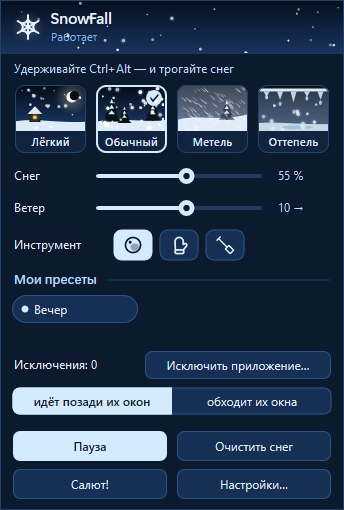
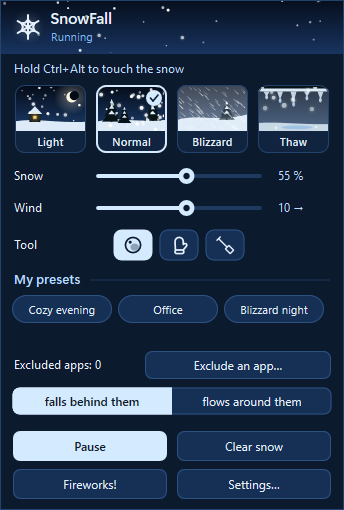
README: clean English screenshots (Russian ones in README.ru); UI showcase mode, preview speed label, preset chip widths

diff --git a/platform/windows/tests/integration/ui/ui_demo.cpp b/platform/windows/tests/integration/ui/ui_demo.cpp
@@ -1342,6 +1342,116 @@ int runSelfTest(HINSTANCE inst, Demo& d) {
     return t.failures == 0 ? 0 : 1;
 }
 
+// ---- showcase: clean screenshots of OUR OWN windows for the README (no selftest state) --------------
+// Places `w` on the cursor-free half of its monitor so nothing is drawn hovered.
+void moveAwayFromCursor(HWND w) {
+    POINT cur{};
+    GetCursorPos(&cur);
+    RECT r{};
+    GetWindowRect(w, &r);
+    MONITORINFO mi{};
+    mi.cbSize = sizeof(mi);
+    GetMonitorInfoW(MonitorFromPoint(cur, MONITOR_DEFAULTTONEAREST), &mi);
+    const RECT& wa = mi.rcWork;
+    const int ww = r.right - r.left, wh = r.bottom - r.top;
+    const bool cursorLeft = cur.x < (wa.left + wa.right) / 2;
+    int x = cursorLeft ? wa.right - ww - 8 : wa.left + 8;
+    int y = wa.top + 8;
+    if (cur.x >= x && cur.x < x + ww && cur.y >= y && cur.y < y + wh) y = (cur.y < (wa.top + wa.bottom) / 2) ? wa.bottom - wh - 8 : wa.top + 8;
+    SetWindowPos(w, nullptr, x, y, 0, 0, SWP_NOSIZE | SWP_NOZORDER | SWP_NOACTIVATE);
+}
+
+void hideFocusCues(HWND w) {
+    SendMessageW(w, WM_CHANGEUISTATE, MAKEWPARAM(UIS_SET, UISF_HIDEFOCUS | UISF_HIDEACCEL), 0);
+    RedrawWindow(w, nullptr, nullptr, RDW_INVALIDATE | RDW_ERASE | RDW_ALLCHILDREN | RDW_UPDATENOW);
+}
+
+bool saveOwnWindow(HWND w, const std::wstring& path) {
+    RECT r{};
+    GetWindowRect(w, &r);
+    MemBitmap mem(r.right - r.left, r.bottom - r.top);
+    if (!PrintWindow(w, mem.dc, PW_RENDERFULLCONTENT)) return false;
+    return mem.save(path);
+}
+
+int runShowcase(HINSTANCE inst, Demo& d, const std::wstring& outDir, Language lang) {
+    CreateDirectoryW(outDir.c_str(), nullptr);
+    HWND owner = createOwner(inst);
+    if (!owner) return 1;
+    const bool ru = lang == Language::Russian;
+    d.settings = Settings{};
+    d.settings.system.language = lang;
+    d.settings.interaction.tool = Tool::Snowball;
+    auto preset = [](const char* name, WeatherPreset p, int intensity, int wind, int maxHeight) {
+        UserPreset u;
+        u.name = name;
+        u.weather.preset = p;
+        u.weather.intensity = intensity;
+        u.weather.wind = wind;
+        u.maxHeightPxAt96Dpi = maxHeight;
+        return u;
+    };
+    d.settings.userPresets = {preset(ru ? "Уютный вечер" : "Cozy evening", WeatherPreset::Light, 30, -10, 30),
+                              preset(ru ? "Офис" : "Office", WeatherPreset::Normal, 45, 5, 24),
+                              preset(ru ? "Ночная метель" : "Blizzard night", WeatherPreset::Blizzard, 90, 60, 60)};
+    setLanguage(lang);
+    d.window.initialize(inst, makeCallbacks());
+    int saved = 0;
+    const wchar_t* themes[3] = {L"night", L"globe", L"postcard"};
+    for (int t = 0; t < 3; ++t) {
+        d.settings.system.uiTheme = static_cast<UiTheme>(t);
+        d.window.show(d.settings);
+        HWND w = d.window.hwnd();
+        if (!w) return 1;
+        moveAwayFromCursor(w);
+        click(w, IDC_NAV_FIRST);
+        SendMessageW(w, uitest::kMsgPreviewAdvance, 240, 0);   // a winter's worth of drifts in the preview
+        hideFocusCues(w);
+        pump(d.window, 1500);   // flakes in motion, transitions finished
+        hideFocusCues(w);
+        pump(d.window, 100);
+        saved += saveOwnWindow(w, outDir + L"\\settings-" + themes[t] + L".png") ? 1 : 0;
+        if (t == 0) {
+            click(w, IDC_NAV_FIRST + 1);
+            hideFocusCues(w);
+            pump(d.window, 600);
+            saved += saveOwnWindow(w, outDir + L"\\settings-" + themes[t] + L"-drifts.png") ? 1 : 0;
+            click(w, IDC_NAV_FIRST);
+        }
+    }
+    d.window.close();
+    pump(d.window, 100);
+
+    // Quick panel, moved to a fixed spot (not near the real tray).
+    d.tray.create(inst, owner, kTrayCommandMsg);
+    for (int t = 0; t < 3; ++t) {
+        d.settings.system.uiTheme = static_cast<UiTheme>(t);
+        d.tray.setSettings(d.settings);
+        d.tray.setState(trayState(d));
+        // The panel closes when it loses activation (a desktop in use can steal it): retry.
+        bool done = false;
+        for (int attempt = 0; attempt < 5 && !done; ++attempt) {
+            d.tray.showQuickPanel();
+            pump(d.window, 100);
+            HWND qp = findOwnWindow(L"SnowFallQuickPanel");
+            if (!qp || !IsWindowVisible(qp)) continue;
+            moveAwayFromCursor(qp);
+            hideFocusCues(qp);
+            pump(d.window, 1200);
+            hideFocusCues(qp);
+            pump(d.window, 60);
+            if (IsWindowVisible(qp)) done = saveOwnWindow(qp, outDir + L"\\quick-panel-" + themes[t] + L".png");
+        }
+        saved += done ? 1 : 0;
+        d.tray.hideQuickPanel();
+        pump(d.window, 50);
+    }
+    d.tray.remove();
+    DestroyWindow(owner);
+    printf("showcase: %d images in %ls\n", saved, outDir.c_str());
+    return saved == 7 ? 0 : 1;
+}
+
 int runInteractive(HINSTANCE inst, Demo& d) {
     HWND owner = createOwner(inst);
     if (!owner) return 1;
@@ -1374,8 +1484,15 @@ int wmain(int argc, wchar_t** argv) {
     INITCOMMONCONTROLSEX icc{sizeof(icc), ICC_STANDARD_CLASSES | ICC_TAB_CLASSES | ICC_BAR_CLASSES};
     InitCommonControlsEx(&icc);
     bool selfTest = false;
+    std::wstring showcaseDir;
+    Language showcaseLang = Language::English;
     for (int i = 1; i < argc; ++i) {
         if (lstrcmpiW(argv[i], L"--selftest") == 0) selfTest = true;
+        if (lstrcmpiW(argv[i], L"--showcase") == 0 && i + 1 < argc) showcaseDir = argv[++i];
+        if (lstrcmpiW(argv[i], L"--lang") == 0 && i + 1 < argc) {
+            ++i;
+            showcaseLang = lstrcmpiW(argv[i], L"ru") == 0 ? Language::Russian : Language::English;
+        }
         if (lstrcmpiW(argv[i], L"--dpi") == 0 && i + 1 < argc) uitest::setDpiOverride(static_cast<UINT>(_wtoi(argv[++i])));
     }
     Gdiplus::GdiplusStartupInput gdiplusInput;
@@ -1390,7 +1507,9 @@ int wmain(int argc, wchar_t** argv) {
         demo.exeDir = path;
         demo.exeDir.erase(demo.exeDir.find_last_of(L'\\'));
         g_demo = &demo;
-        rc = selfTest ? runSelfTest(inst, demo) : runInteractive(inst, demo);
+        rc = !showcaseDir.empty() ? runShowcase(inst, demo, showcaseDir, showcaseLang)
+             : selfTest            ? runSelfTest(inst, demo)
+                                   : runInteractive(inst, demo);
         g_demo = nullptr;
     }
     Gdiplus::GdiplusShutdown(gdiplusToken);

diff --git a/platform/windows/app/ui/skin.cpp b/platform/windows/app/ui/skin.cpp
@@ -386,10 +386,15 @@ bool Skin::onDrawItem(LPARAM lp) {
             const float r = (chip.bottom - chip.top) / 2;
             pt.fillRound(chip, r, col(sel ? mixColor(p.control, p.accent, 0.25f) : p.control));
             pt.strokeRound(chip, r, col(sel ? p.accent : p.controlBorder), sel ? 1.5f : 1.0f);
-            pt.fillEllipse(chip.left + 13, s.height / 2, 3.5f, 3.5f, col(p.accent));
-            TextStyle ts{pt.bodySize()};
-            const float right = deletable ? chipDeleteZone(s.width) : chip.right - 8;
-            pt.text(text, rf(chip.left + 22, 0, right, s.height), ts, col(p.controlText));
+            if (deletable) {
+                pt.fillEllipse(chip.left + 13, s.height / 2, 3.5f, 3.5f, col(p.accent));
+                TextStyle ts{pt.bodySize()};
+                pt.text(text, rf(chip.left + 22, 0, chipDeleteZone(s.width), s.height), ts, col(p.controlText));
+            } else {   // compact chip (quick panel): centred name, no marker
+                TextStyle ts{pt.bodySize() * 0.94f};
+                ts.align = DWRITE_TEXT_ALIGNMENT_CENTER;
+                pt.text(text, rf(chip.left + 6, 0, chip.right - 6, s.height), ts, col(p.controlText));
+            }
             if (deletable) {
                 const float cx = chip.right - 13, cy = s.height / 2;
                 pt.line(cx - 3.5f, cy - 3.5f, cx + 3.5f, cy + 3.5f, col(p.textSecondary), 1.4f);

diff --git a/platform/windows/app/ui/settings_window.cpp b/platform/windows/app/ui/settings_window.cpp
@@ -854,7 +854,7 @@ struct SettingsWindow::Impl {
         place(statusLine, pageX + 2, bottomY, clientW - 14 - 120 - 10 - 290 - 12 - pageX, kBottomH);
         HWND chips = ctl(IDC_UP_LIST);
         SendMessageW(chips, LB_SETITEMHEIGHT, 0, px(34));
-        SendMessageW(chips, LB_SETCOLUMNWIDTH, px(132), 0);
+        SendMessageW(chips, LB_SETCOLUMNWIDTH, px(152), 0);
 
         RECT wr{0, 0, px(clientW), px(bottomY + kBottomH + 10)};
         const DWORD style = static_cast<DWORD>(GetWindowLongPtrW(hwnd, GWL_STYLE));

diff --git a/platform/windows/app/ui/quick_panel.cpp b/platform/windows/app/ui/quick_panel.cpp
@@ -190,7 +190,7 @@ struct QuickPanel::Impl {
         btn(IDC_QP_FIREWORKS, tr(StrId::BtnFireworks), 12, kH - 42, false);
         btn(IDC_QP_SETTINGS, tr(StrId::MenuSettings), 176, kH - 42, false);
         SendMessageW(chips, LB_SETITEMHEIGHT, 0, px(34));
-        SendMessageW(chips, LB_SETCOLUMNWIDTH, px(132), 0);
+        SendMessageW(chips, LB_SETCOLUMNWIDTH, px(106), 0);   // three chips fit without scrolling
     }
 
     void createFonts() {

diff --git a/README.ru.md b/README.ru.md
@@ -8,7 +8,7 @@
 **Платформа:** Windows 11 x64 (нативный C++20, Win32 + Direct3D 11). Планируется порт на
 macOS — см. [platform/macos](platform/macos/README.md). [English README](README.md)
 
-![Окно настроек, тема «Зимняя ночь»](docs/images/settings-night.png)
+![Окно настроек, тема «Зимняя ночь»](docs/images/ru/settings-night.png)
 
 ## Возможности
 
@@ -33,7 +33,11 @@ macOS — см. [platform/macos](platform/macos/README.md). [English README](REA
 
 | Быстрая панель | Скины снеговиков |
 |---|---|
-| ![Быстрая панель](docs/images/quick-panel.png) | ![Скины](docs/images/snowman-skins.png) |
+| ![Быстрая панель](docs/images/ru/quick-panel.png) | ![Скины](docs/images/snowman-skins.png) |
+
+| Тема «Снежный шар» | Тема «Новогодняя открытка» |
+|---|---|
+| ![Снежный шар](docs/images/ru/settings-globe.png) | ![Открытка](docs/images/ru/settings-postcard.png) |
 
 ## Установка
 

diff --git a/README.md b/README.md
@@ -36,6 +36,10 @@ see [platform/macos](platform/macos/README.md).
 |---|---|
 | ![Quick panel](docs/images/quick-panel.png) | ![Snowman skins](docs/images/snowman-skins.png) |
 
+| "Snow globe" theme | "New Year card" theme |
+|---|---|
+| ![Snow globe theme](docs/images/settings-globe.png) | ![New Year card theme](docs/images/settings-postcard.png) |
+
 ## Install
 
 Download `SnowFallSetup.exe` from [Releases](../../releases) (per-user install, no admin
